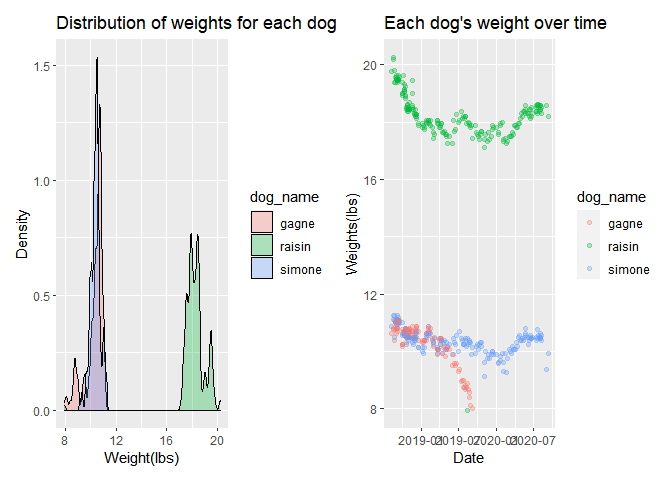
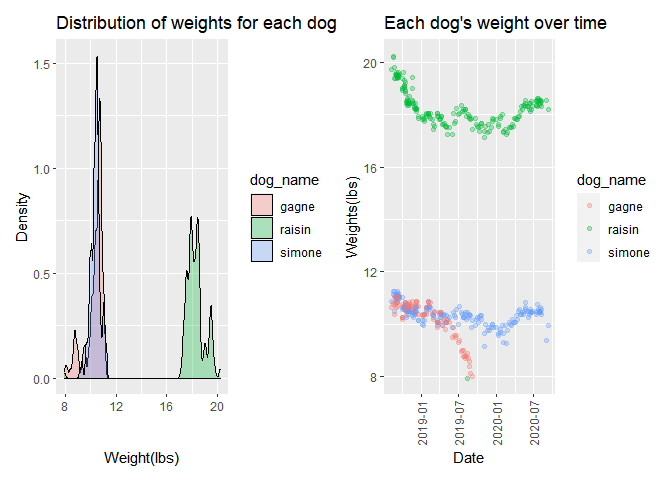
Problem 3 - edits on two-panel plot

diff --git a/p8105_mtp_nc2894.md b/p8105_mtp_nc2894.md
@@ -176,7 +176,8 @@ dogs_weight_time =
   labs(
     title = "Each dog's weight over time",
     x = "Date",
-    y = "Weights(lbs)")
+    y = "Weights(lbs)") +
+   theme(axis.text.x = element_text(angle = 90, vjust = 0.5, hjust = 1))
   
 dogs_weight_dist + dogs_weight_time
 ```
